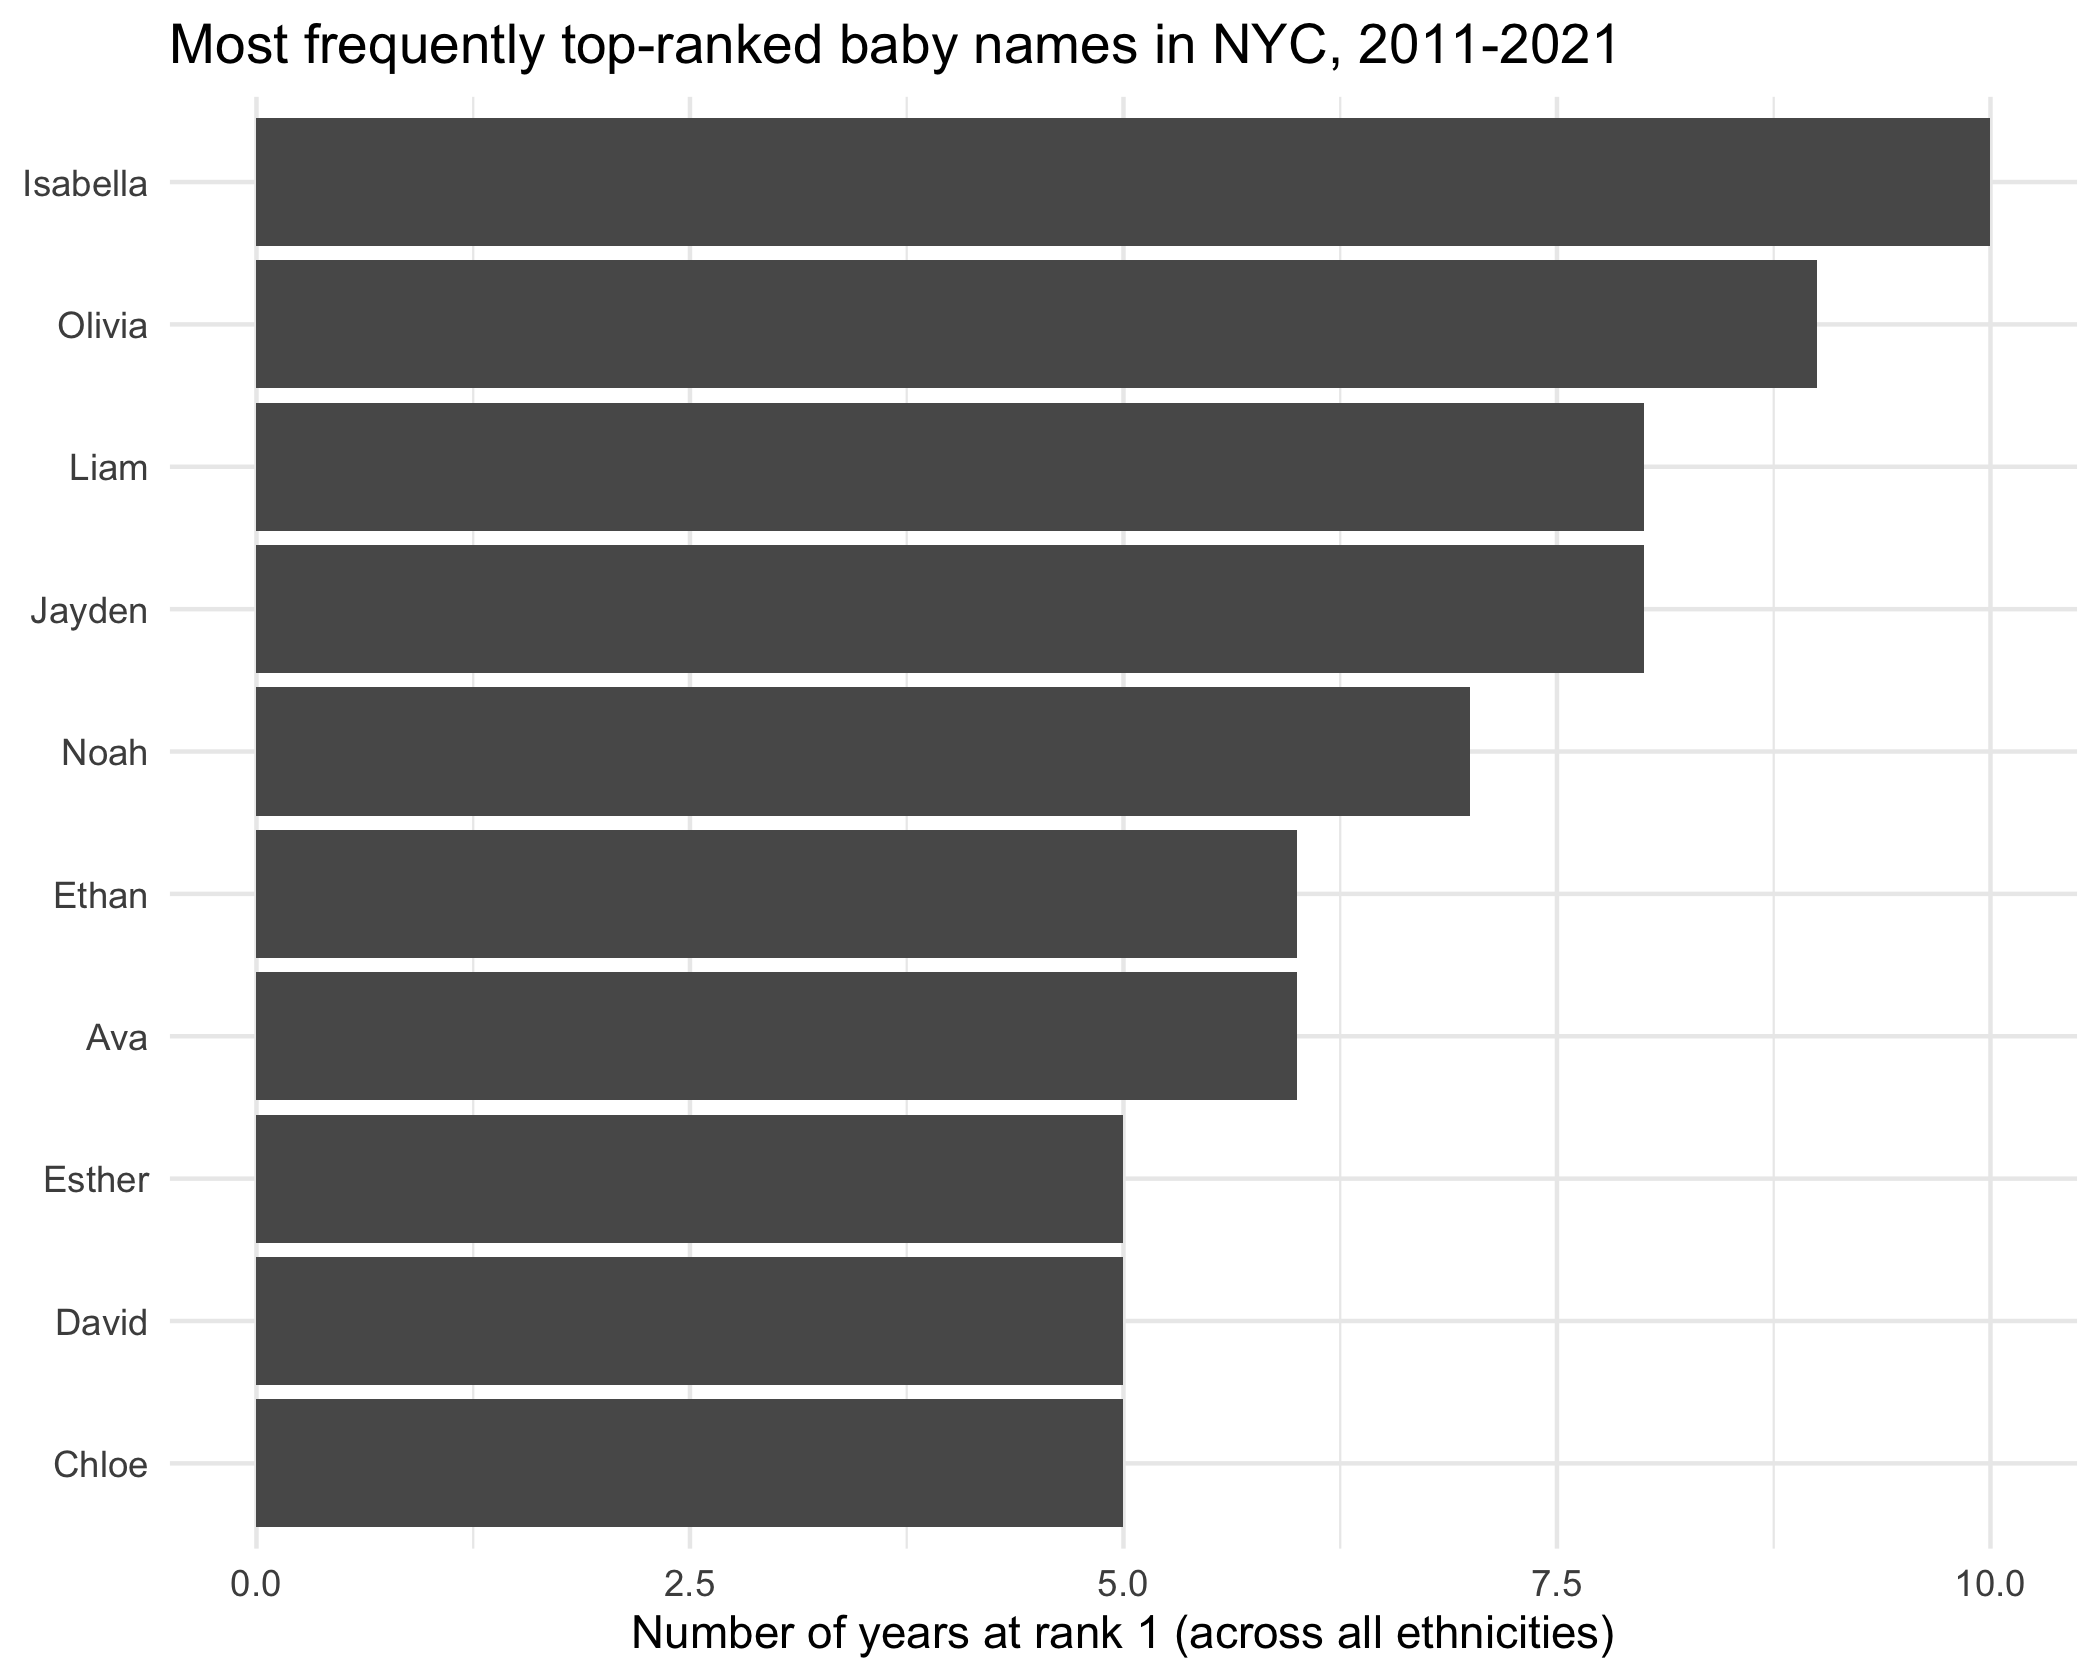
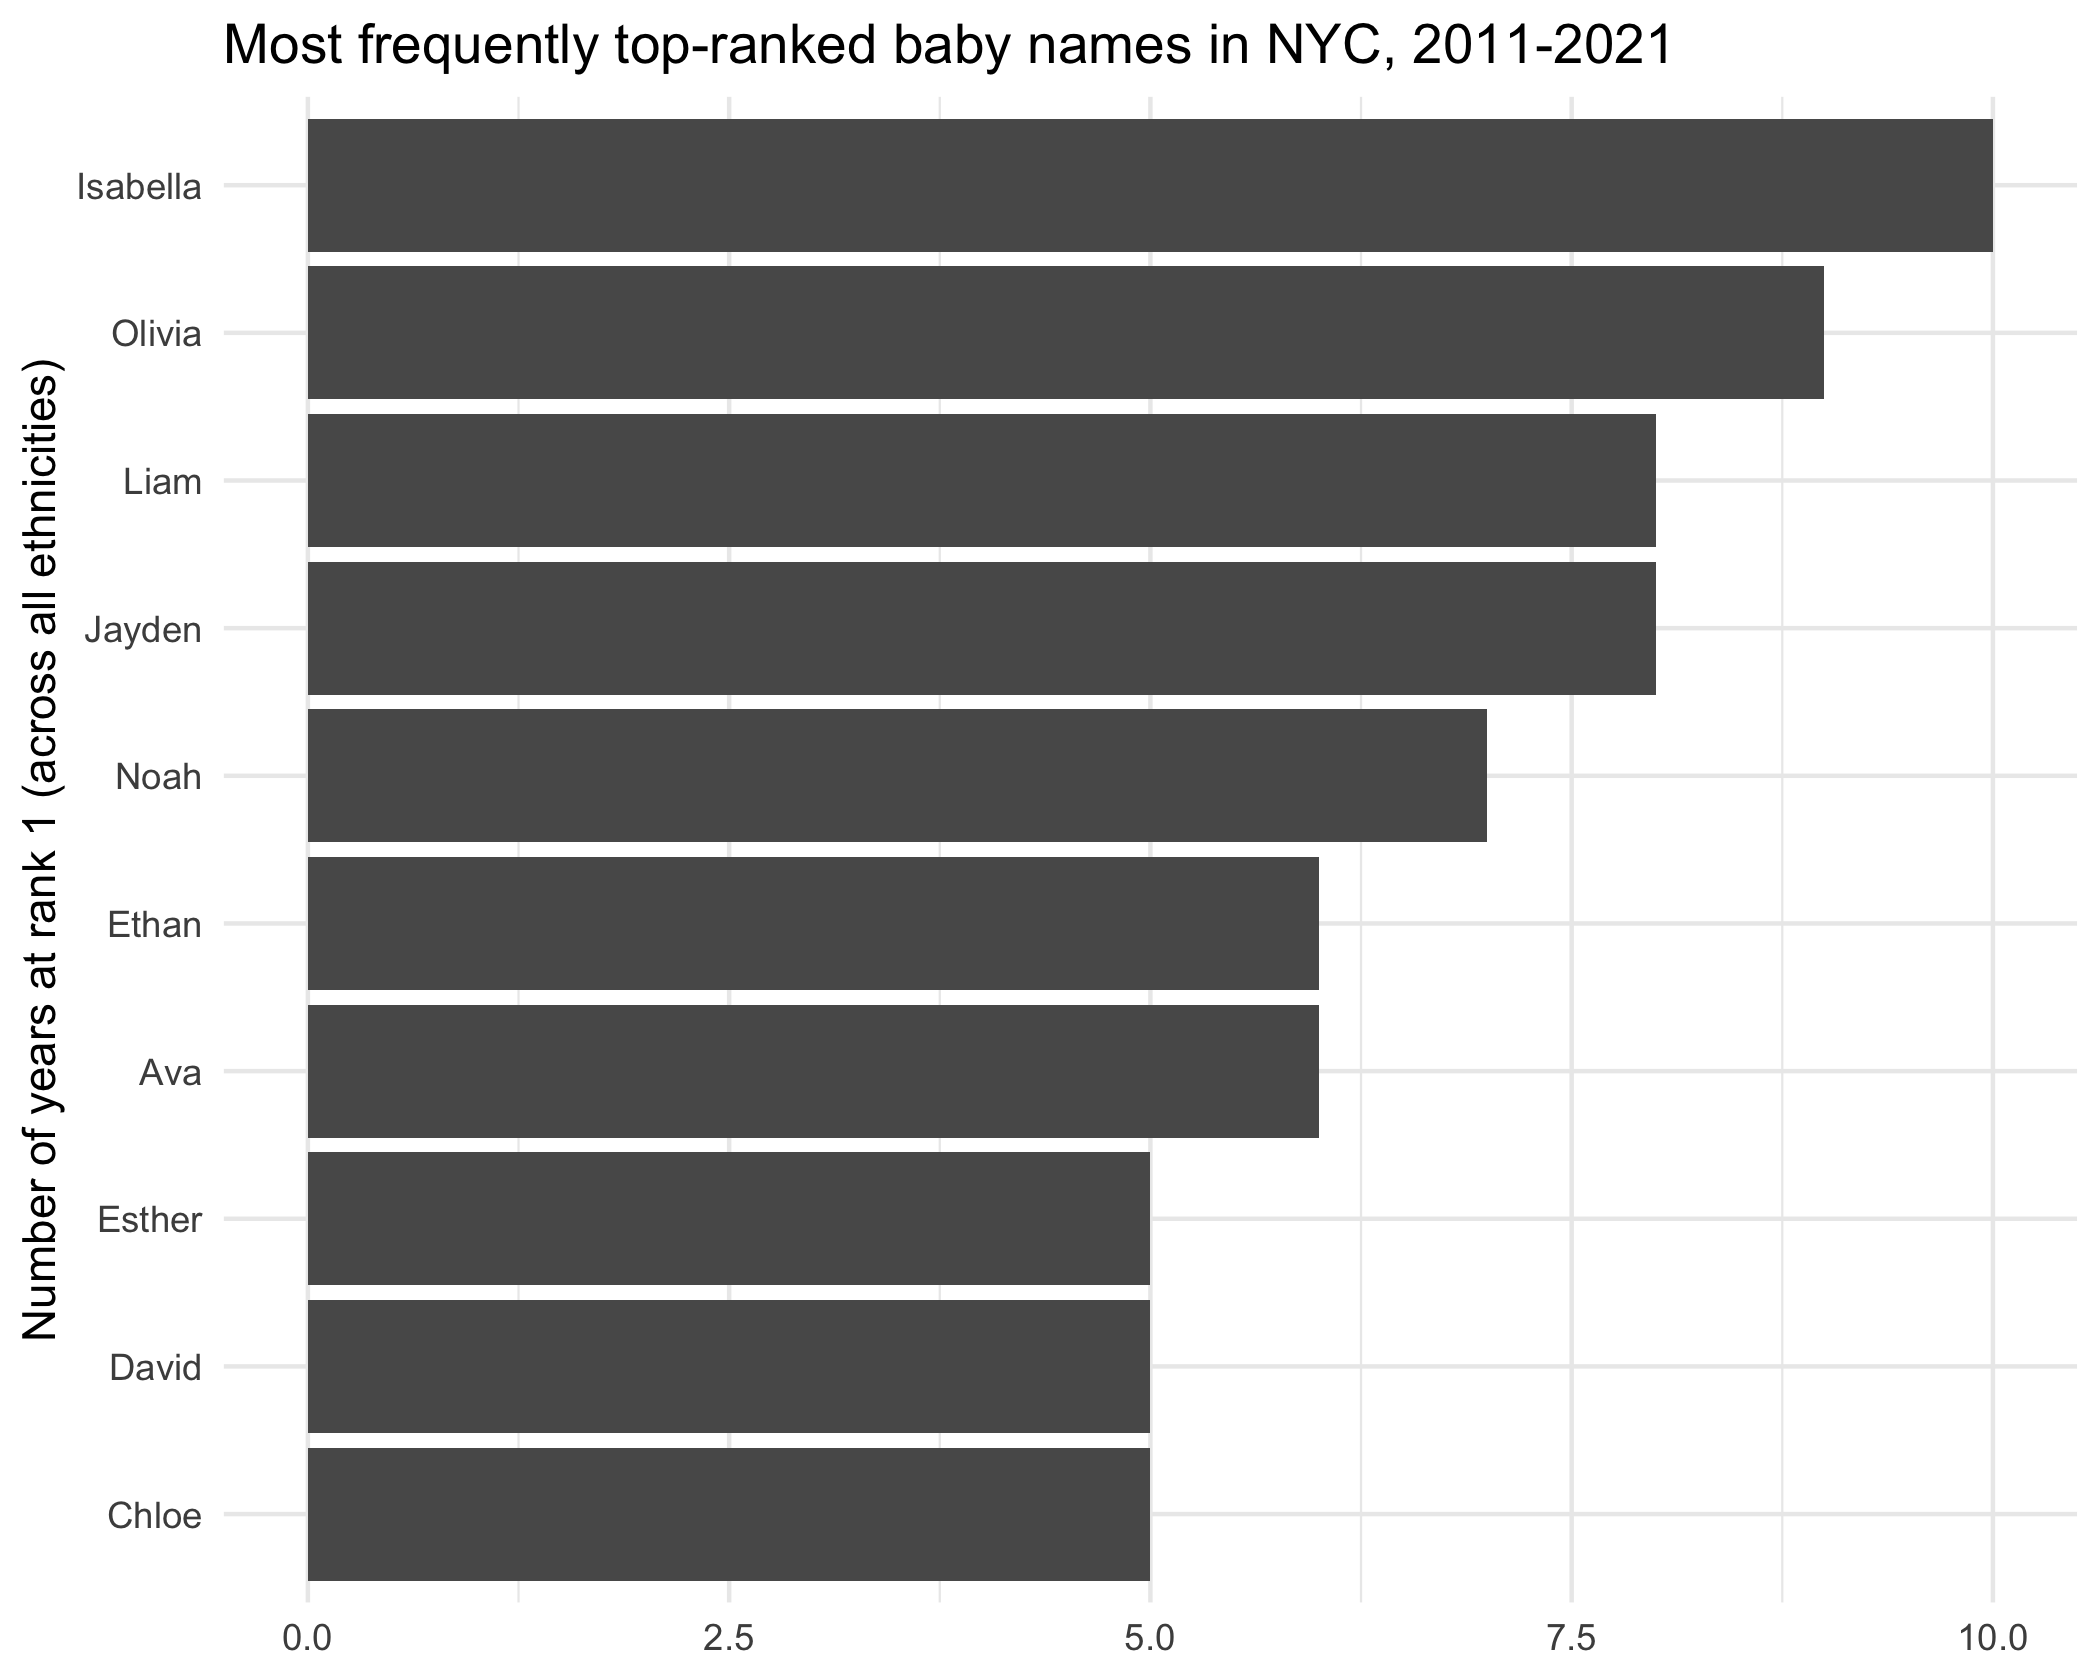
Tweak figure

diff --git a/README.md b/README.md
@@ -23,16 +23,6 @@ remotes::install_github("kjhealy/nycbabynames")
 
 ``` r
 library(tidyverse)
-#> ── Attaching core tidyverse packages ──────────────────────── tidyverse 2.0.0 ──
-#> ✔ dplyr     1.2.0     ✔ readr     2.2.0
-#> ✔ forcats   1.0.1     ✔ stringr   1.6.0
-#> ✔ ggplot2   4.0.2     ✔ tibble    3.3.1
-#> ✔ lubridate 1.9.5     ✔ tidyr     1.3.2
-#> ✔ purrr     1.2.1     
-#> ── Conflicts ────────────────────────────────────────── tidyverse_conflicts() ──
-#> ✖ dplyr::filter() masks stats::filter()
-#> ✖ dplyr::lag()    masks stats::lag()
-#> ℹ Use the conflicted package (<http://conflicted.r-lib.org/>) to force all conflicts to become errors
 library(nycbabynames)
 ```
 
@@ -67,9 +57,8 @@ nyc_babynames_df |>
   filter(rank == 1) |>
   count(childs_first_name, sex, sort = TRUE) |>
   slice_head(n = 10) |>
-  ggplot(aes(x = fct_reorder(childs_first_name, n), y = n)) +
+  ggplot(aes(x = n, y = fct_reorder(childs_first_name, n))) +
   geom_col() +
-  coord_flip() +
   labs(
     x = NULL,
     y = "Number of years at rank 1 (across all ethnicities)",
